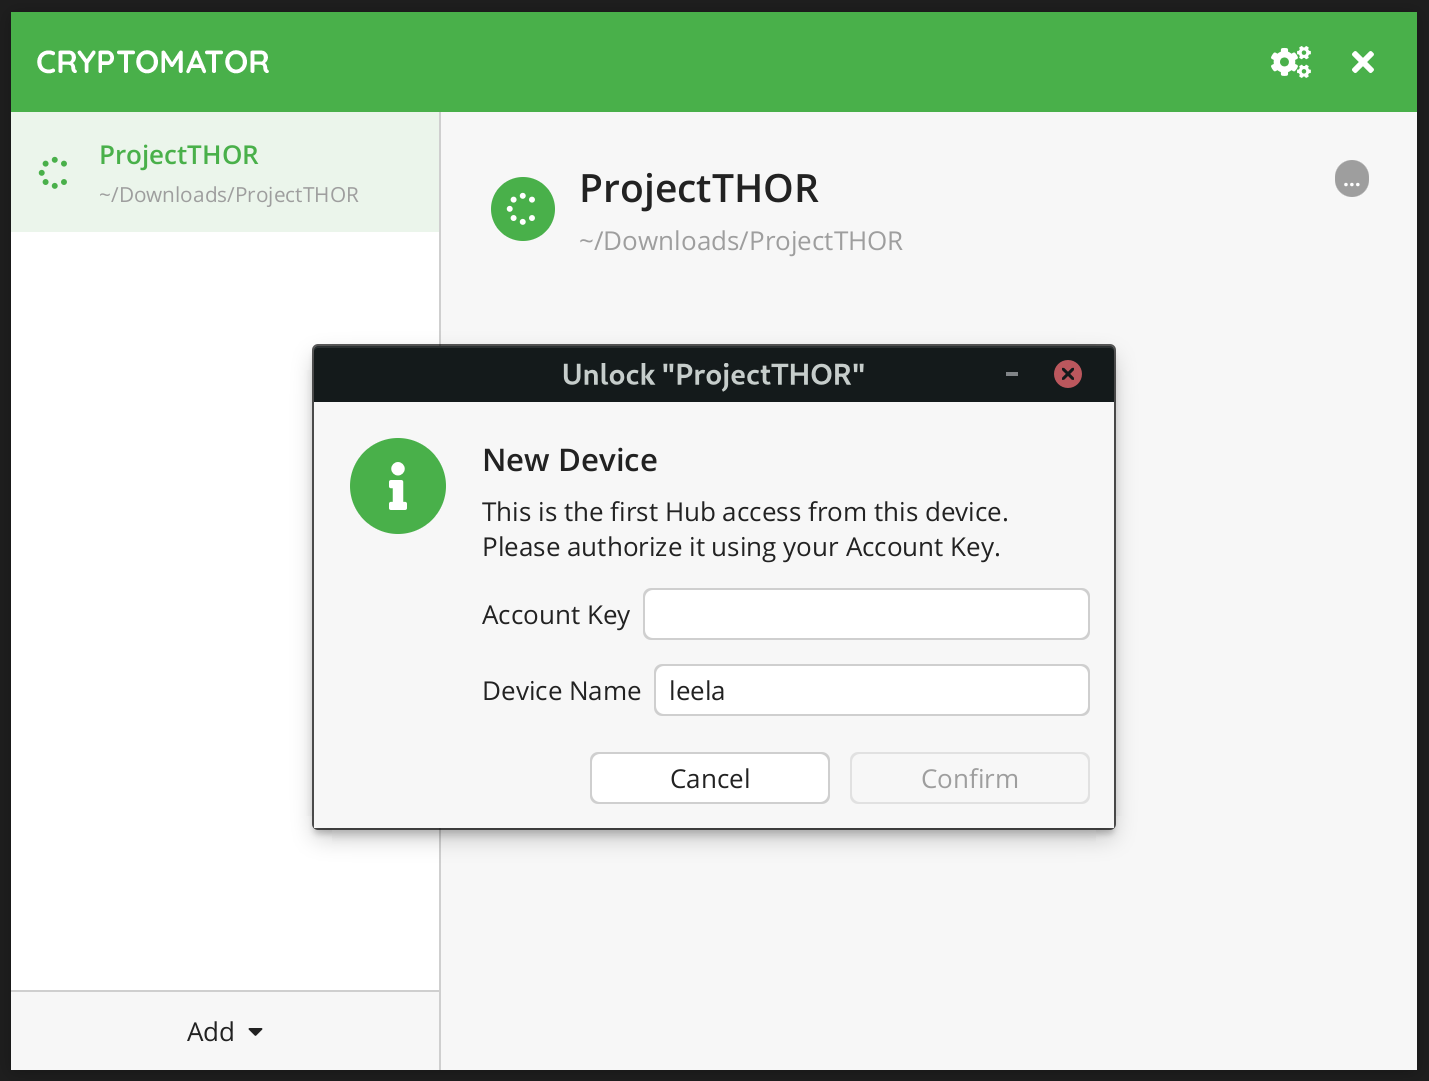
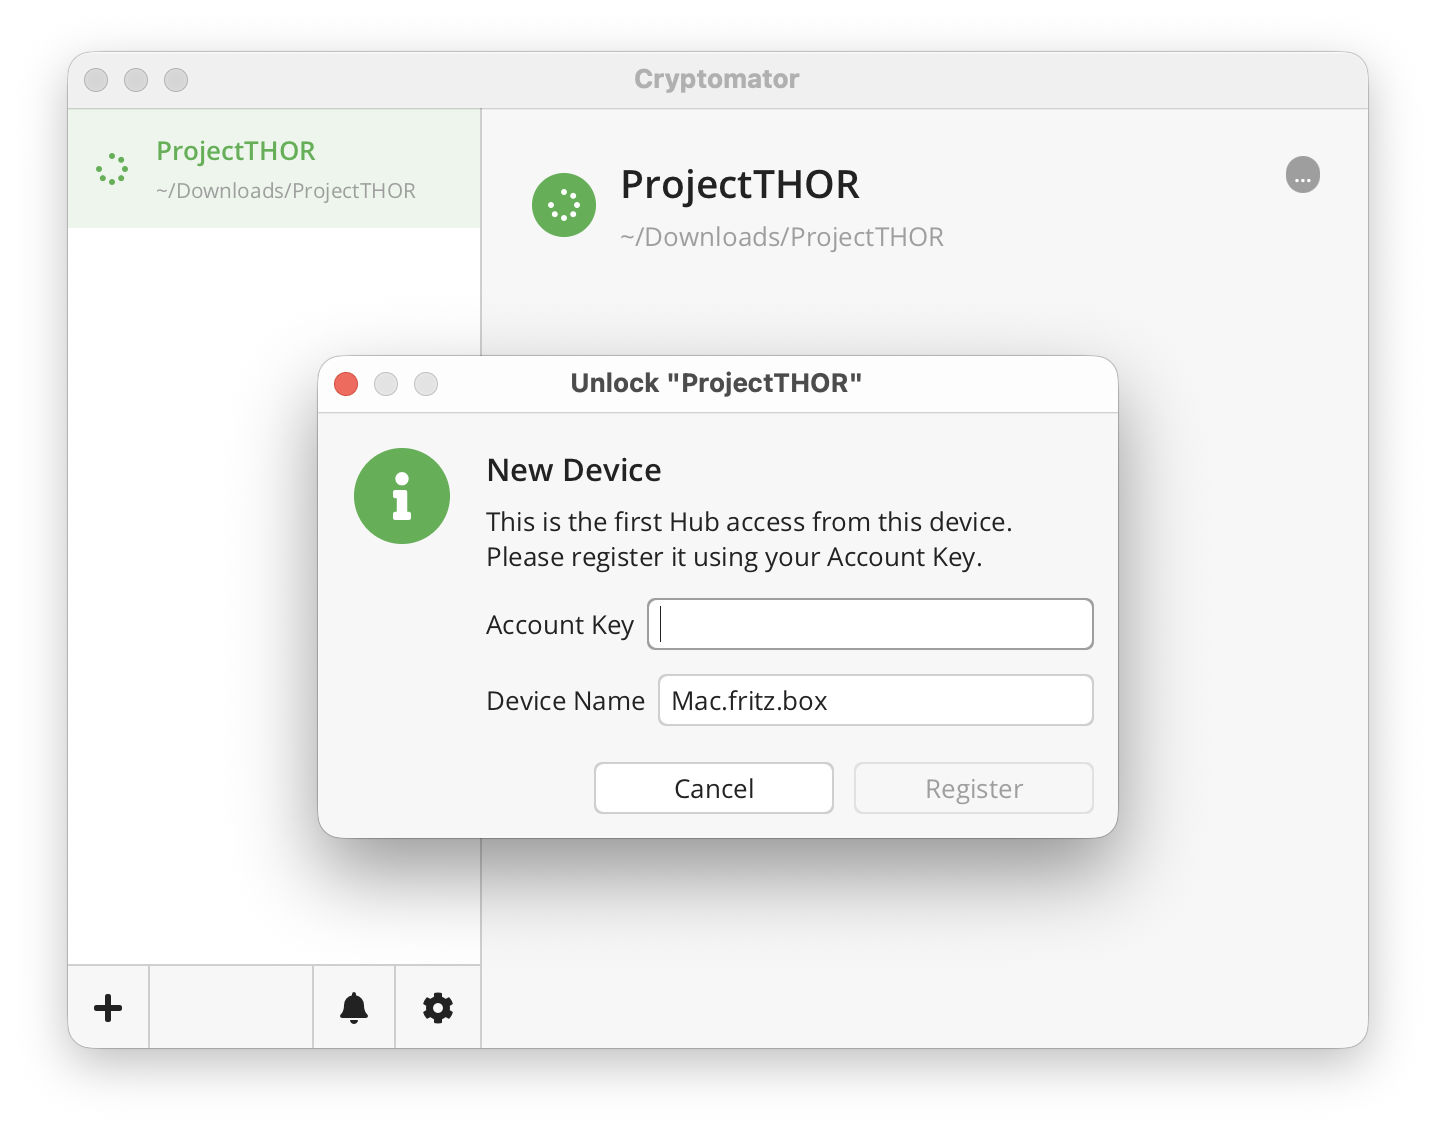
update screenshots and remove step 3 account setup

Changed region(s): [[0.0, 0.0, 1.0, 1.0], [0.1847, 0.3053, 0.8006, 0.7937], [0.3387, 0.1526, 0.6466, 0.2442]]

diff --git a/docs/hub/access-vault.md b/docs/hub/access-vault.md
@@ -29,21 +29,7 @@ Cryptomator should open your default browser for authentication. If you're not a
 
 <Image src="/img/hub/unlock-authenticate.png" alt="After your browser asks for credentials, enter your username and password" width="1280" height="567" />
 
-### 3. Account Setup {#account-setup}
-
-If this is the first time you log into Hub, Cryptomator and Cryptomator Hub requests you to [set up your account](your-account.md#account-setup).
-
-Desktop
-
-<Image src="/img/hub/unlock-setup-required-desktop.png" alt="Cryptomator requests to setup your user account" width="715" height="541" />
-
-Hub
-
-<Image src="/img/hub/unlock-setup-required-hub.png" alt="Hub requests to setup your user account" width="1280" height="382" />
-
-When you finished the account setup in Hub, unlock the vault again.
-
-### 4. Register Device {#register-device}
+### 3. Register Device {#register-device}
 
 If you just did setup your account, a vault owner needs to grant you access for the requested vault as described [here](vault-management.md#update-permissions). Retry unlocking the vault after the vault owner granted you access.
 
@@ -63,7 +49,7 @@ Enter a name for the device to identify it later on and the [Account Key](your-a
 
 After that, you will see a confirmation dialog, unlock the vault again.
 
-### 5. Vault Unlocked {#vault-unlocked}
+### 4. Vault Unlocked {#vault-unlocked}
 
 You are all set up and an unlock should be successful from now on. You can then reveal the vault's contents as usual.
 
